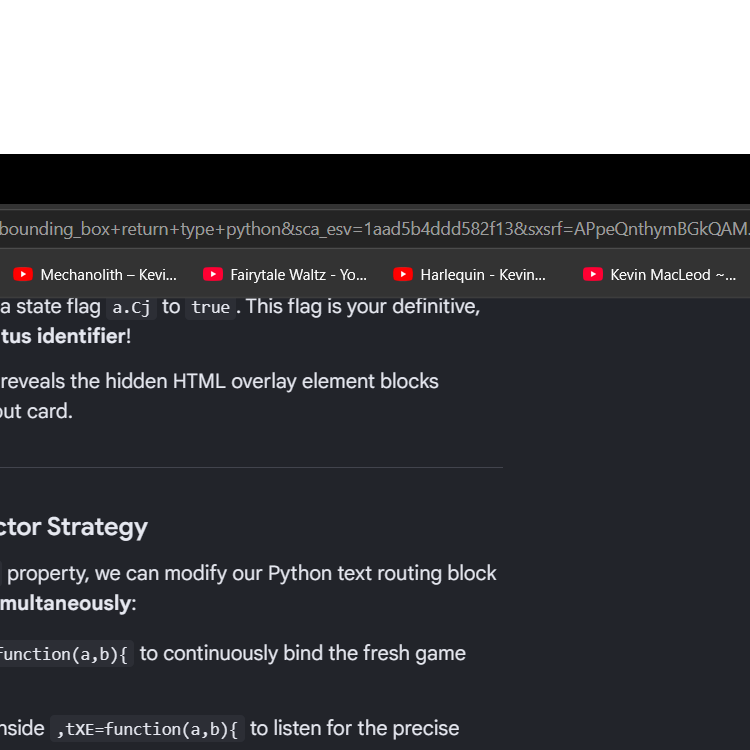
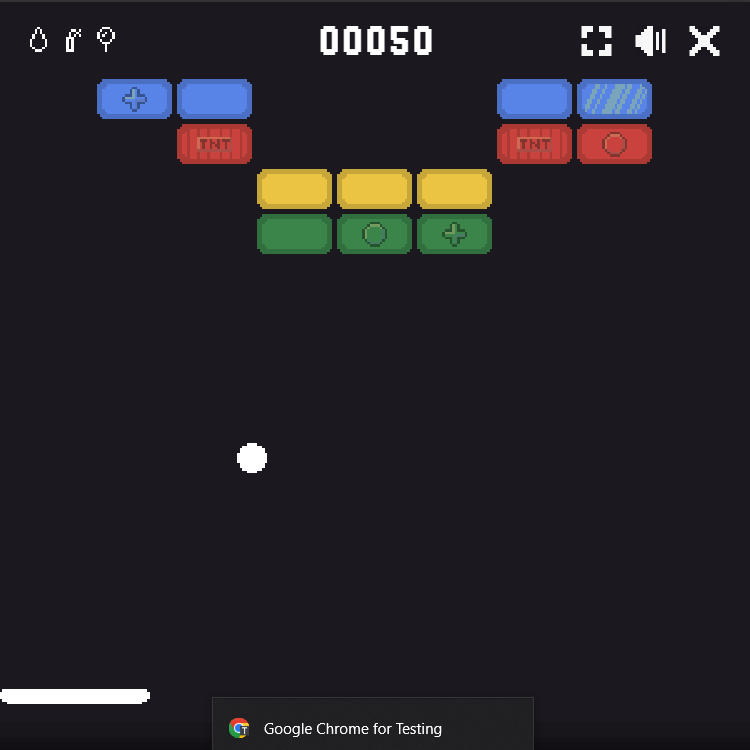
Successfully got basic gym loop working

diff --git a/main.py b/main.py
@@ -9,6 +9,7 @@ from matplotlib import pyplot as plt
 import cv2
 import numpy as np
 from playwright.sync_api import sync_playwright
+import asyncio
 import re
 
 """
@@ -26,7 +27,7 @@ gym.spaces: Modules for defining action and observation spaces in the reinforcem
 gym.spaces.Box: A class for defining continuous action or observation spaces.
                 (think like an n-dimensional continuous "vector"
                  e.g., for pixel values in an image).
-gym.spaces.Discrete: A class for defining discrete action or observation spaces.
+gym.spaces.Discrete: A class for defining discrete action and observation spaces.
 matplotlib.pyplot: A library for creating plots and visualizations.
 cv2: The OpenCV library, used for image processing tasks.
 playwright: A Python library for browser automation. It allows me to interact
@@ -35,9 +36,28 @@ playwright: A Python library for browser automation. It allows me to interact
 """
 
 class GoogleAtariBreakout(Env): # This signifies it inherits from gym.Env
+    
     def __init__(self, page):
         super().__init__() # just good practice. always call super constructor
 
+        self.first_start = True
+
+        self.IMAGE_HEIGHT = 128
+        self.IMAGE_WIDTH = 128
+
+        # Define our action and observation spaces
+        # We'll have 4 actions (left, right, up, no-op) 
+        # and a 128x128 downscaled grayscale iamge
+
+        self.action_space = Discrete(4)
+        self.observation_space = Box(
+            low=0,
+            high=255,
+            shape=(1, self.IMAGE_HEIGHT, self.IMAGE_WIDTH),
+            dtype = np.uint8
+        )
+
+        self.cap = mss.MSS()
         self.page = page
 
         # We are going to manually intercept every JS script that's downloaded
@@ -45,6 +65,8 @@ class GoogleAtariBreakout(Env): # This signifies it inherits from gym.Env
         # intercept it and overwrite part of its code to expose its
         # local variables so we can actually read the score and
         # the game over flag
+        # I had AI help me with this because there's no way I know how to
+        # reverse engineer stuff sorry I'm not cracked at CS
         def inject_memory_leak(route):
             if "m=syjv" not in route.request.url:
                 route.continue_()
@@ -53,7 +75,7 @@ class GoogleAtariBreakout(Env): # This signifies it inherits from gym.Env
             response = route.fetch()
             original_text = response.text()
             target_signature = ",IXE=function(a,b){"
-            
+
             if target_signature in original_text:
                 # REMOVED 'debugger;' so the game runs at full speed automatically!
                 print("Injected successfully!")
@@ -67,19 +89,24 @@ class GoogleAtariBreakout(Env): # This signifies it inherits from gym.Env
 
         self.page.route("**/xjs/_/js/**", inject_memory_leak)
 
-
         # 2. Now run your normal flow
         self.page.goto("https://www.google.com/search?q=block+breaker")
         self.page.get_by_role("button", name="Daily Challenge").click()
 
         # Finds the game's iframe, then waits for it to be visible
+        # Aight so ima be honest this isn't the most elegant solution but I think it works lmao
         game_frame_locator = self.page.frame_locator('iframe[jsname="V42h1d"]')
-        mute_button_locator = game_frame_locator.get_by_role("button", name="Mute")
         canvas_locator = game_frame_locator.locator("canvas")
+        mute_button_locator = game_frame_locator.get_by_role("button", name="Mute")
+        progress_bar = game_frame_locator.locator('div[aria-label="Loading..."]')
+
         mute_button_locator.wait_for(state="visible", timeout=15000)
-        
+        progress_bar.wait_for(state="hidden", timeout=15000)
+
+        time.sleep(2)
+
         print("Game loaded successfully!")
-        
+
         # Ok this JS code is stuff I learned myself and WHAT A PAIN IN THE AHH
         # getting the exact pixel is a pain in the AHH too
 
@@ -105,11 +132,9 @@ class GoogleAtariBreakout(Env): # This signifies it inherits from gym.Env
 
         canvas_viewport_coordinates = canvas_locator.bounding_box()
 
-        time.sleep(2)
-
         # It's not perfect, but it works. it's like off by +-2 pixels on average, which makes
         # no difference for a CNN.
-        
+
         mss_region = self.page.evaluate(
             """
             // Define an anonymous function
@@ -123,7 +148,7 @@ class GoogleAtariBreakout(Env): # This signifies it inherits from gym.Env
 
                 // Calculate the device pixel ratio (e.g., 1.0 = 100%, 1.25 = 125%, stuff scale)
                 const dpr = window.devicePixelRatio || 1;
-    
+
                 // Now get the actual screen coordinates
                 // We add window.screenX and window.screenY in case the window is dragged
                 // around and not in the top-left corner
@@ -135,8 +160,7 @@ class GoogleAtariBreakout(Env): # This signifies it inherits from gym.Env
                 const screenX = Math.floor(window.screenX + borderThickness + canvas_viewport_coords.x);
                 const screenY = Math.floor(window.screenY + tabHeight + canvas_viewport_coords.y);
 
-                // If top-left corner is at some super precise position like 572.2, 370.5,
-                // and width is 750 with a height of 750, what's effectively gonna happen
+                // If top-left corner is at some super precise position like 572.2, 370.5, and width is 750 with a height of 750, what's effectively gonna happen
                 // is that we get some decimal value --> it gets rounded
                 const effectiveWidth = Math.round(canvas_viewport_coords.width);
                 const effectiveHeight = Math.round(canvas_viewport_coords.height);
@@ -152,41 +176,24 @@ class GoogleAtariBreakout(Env): # This signifies it inherits from gym.Env
             canvas_viewport_coordinates
         )
 
-        print("Grabbed monitor-specific coordinates of game window")
-
-        self.IMAGE_HEIGHT = 128
-        self.IMAGE_WIDTH = 128
-
-        # Define our action and observation spaces
-        # We'll have 4 actions (left, right, up, no-op) 
-        # and a 128x128 downscaled grayscale iamge
-
-        self.action_space = Discrete(4)
-        self.observation_space = Box(
-            low=0,
-            high=255,
-            shape=(1, self.IMAGE_HEIGHT, self.IMAGE_WIDTH),
-            dtype = np.uint8
-        )
-
         self.game_location = mss_region
+        self.old_score = 0
+        self.game_iframe = game_frame_locator
 
-        # Two corners for PLAY AGAIN button:
-        # 759, 713
-        # 1050, 769
-        # Width: 292, Height: 57
-
-        # Create MSS instance and save it as a field so we don't re-create it
-        # every frame
-
-        self.done_location = {"left": 759, "top": 713, "width": 292, "height": 57}
-        self.cap = mss.MSS()
-        self.done_image = cv2.imread("done_img.png", cv2.IMREAD_GRAYSCALE)
-
-        # cv2.imread will do (WIDTH, HEIGHT), excluding channels b/c grayscale
-
+        print("Grabbed monitor-specific coordinates of game window")
+    
     def reset(self, seed=None, options=None):
         super().reset(seed=seed)
+        self.old_score = 0
+
+        if self.first_start:
+            self.page.keyboard.press("ArrowUp")
+            self.first_start = False
+        else:
+            self.game_iframe.get_by_text("Play again", exact=True).click()
+            self.page.keyboard.press("ArrowUp")
+
+        return self.get_observation(), {}
 
     def step(self, action):
         # 0 - left
@@ -198,32 +205,45 @@ class GoogleAtariBreakout(Env): # This signifies it inherits from gym.Env
         # to see for us)
 
         action_map = {
-            0:  "left",
-            1:  "right",
-            2:  "up",
+            0:  "ArrowLeft",
+            1:  "ArrowRight",
+            2:  "ArrowUp",
             3:  "no-op"
         }
 
         if action != 3:
-            pydirectinput.press(action_map[action])
+            # Key up everything first
+            for a in action_map.values():
+                if a != "no-op":
+                    self.page.keyboard.up(a)
 
-        observation = self.get_observation()
-        done = self.get_done()
+            self.page.keyboard.down(action_map[action])
 
-        pass
+        observation = self.get_observation() 
+        done, score = self.get_score_and_done()
 
-    def get_rl_metrics(self):
+        if self.old_score != score:
+            reward = (score - self.old_score) / 1000
+            self.old_score = score
+        elif not done:
+            reward = 0
+        else:
+            reward = -1
+
+        return observation, reward, done, False, {}
+
+    def get_score_and_done(self):
         # Fetch the real-time variables from memory at lightning speed
         metrics = self.page.evaluate("""() => {
             const game = window.top.__stolen_game_state;
             if (!game) return { score: 0, done: false };
-            
+
             return {
                 score: game.Ji,    // Perfect reward signal
                 done: game.Cj      // True/False game-over state flag
             };
         }""")
-        return metrics
+        return metrics["done"], metrics["score"]
 
     def get_observation(self):
         screenshot = self.cap.grab(self.game_location)
@@ -250,22 +270,6 @@ class GoogleAtariBreakout(Env): # This signifies it inherits from gym.Env
 
         return resized_img
 
-    def get_done(self):
-        target_region_img = self.cap.grab(self.done_location)
-        region_data = np.frombuffer(target_region_img.bgra, dtype=np.uint8)
-        region_data = region_data.reshape((target_region_img.height, target_region_img.width, 4))
-        grayscale_data = cv2.cvtColor(region_data, cv2.COLOR_BGRA2GRAY)
-
-        # Use OpenCV template mattching to detect if it's there or not (overkill but i'm lazy)
-        # We don't care about the min value or the max or min locations
-
-        result = cv2.matchTemplate(grayscale_data, self.done_image, cv2.TM_CCOEFF_NORMED)
-        _, max_val, _, _, = cv2.minMaxLoc(result)
-
-        # This represents 0.8 or more correlation
-
-        return max_val > 0.8
-
     def close(self):
         super().close()
         self.cap.close()
@@ -281,47 +285,60 @@ and just directly listen to whatever function is called when the game is over
 in the JS
 """
 
-with sync_playwright() as p:
-    # Launch the browser. headless=False means we actually show the browser being launched
-    # Start-maximized maximizes the window
-    # disable blink features makes it look less like it's a bot so chrome doesn't give us
-    # the annoying "Are you a human?" captcha pop-up
-    browser = p.chromium.launch(
-        headless=False,
-        args=[
-            "--auto-open-devtools-for-tabs",
-            "--start-maximized",
-            "--disable-blink-features=AutomationControlled",
-        ],
-    )
+def main():
+    with sync_playwright() as p:
+        # Launch the browser. headless=False means we actually show the browser being launched
+        # Start-maximized maximizes the window
+        # disable blink features makes it look less like a bot so chrome doesn't give us
+        # the annoying "Are you a human?" captcha pop-up
+        browser = p.chromium.launch(
+            headless=False,
+            args=[
+                "--start-maximized",
+                "--disable-blink-features=AutomationControlled",
+            ],
+        )
 
-    # This opens the new window in sort of incognito mode. no viewport 
-    # = true was some fix that was needed because it was ignoring start-maximized by making the
-    # page's viewport not take up the entire window
-    # user_agent is just some other stuff to mimic being a human
+        # This opens the new window in sort of incognito mode. no viewport 
+        # = true was some fix that was needed because it was ignoring start-maximized by making the
+        # page's viewport not take up the entire window
+        # user_agent is just some other stuff to mimic being a human
 
-    context = browser.new_context(
-        bypass_csp=True,
-        no_viewport=True,
-        user_agent=(
-            "Mozilla/5.0 (Windows NT 10.0; Win64; x64) AppleWebKit/537.36 (KHTML,"
-            " like Gecko) Chrome/124.0.0.0 Safari/537.36"
-        ),
-    )
+        context = browser.new_context(
+            bypass_csp=True,
+            no_viewport=True,
+            user_agent=(
+                "Mozilla/5.0 (Windows NT 10.0; Win64; x64) AppleWebKit/537.36 (KHTML,"
+                " like Gecko) Chrome/124.0.0.0 Safari/537.36"
+            ),
+        )
 
-    # This opens a new page
-    page = context.new_page()
-    
-    env = GoogleAtariBreakout(page)
-    env.get_observation()
+        # This opens a new page
+        page = context.new_page()
 
-    while True:
-        print(env.get_rl_metrics())
-        time.sleep(1)
-    # img = print(env.get_done())
-    # img = np.array(img).reshape((img.height, img.width, 4))
-    # img_bgr = img[:, :, :3]
-    # cv2.imwrite("done_img_test.png", img_bgr)
+        env = GoogleAtariBreakout(page)
+        
+        while True:
+            init_observation, info = env.reset()
 
-    time.sleep(500)
-    browser.close()
+            timestep = 0
+            done = False
+
+            while not done:
+                observation, reward, done, truncated, info = env.step(env.action_space.sample())
+                print(f"Timestep: {timestep} |", reward, done, truncated, info)
+                time.sleep(4 / 60)
+                timestep += 1
+
+        #while True:
+        #    time.sleep(1)
+        #    print(env.get_score_and_done())
+        # img = print(env.get_done())
+        # img = np.array(img).reshape((img.height, img.width, 4))
+        # img_bgr = img[:, :, :3]
+        # cv2.imwrite("done_img_test.png", img_bgr)
+
+        time.sleep(500)
+        browser.close()
+
+main()
